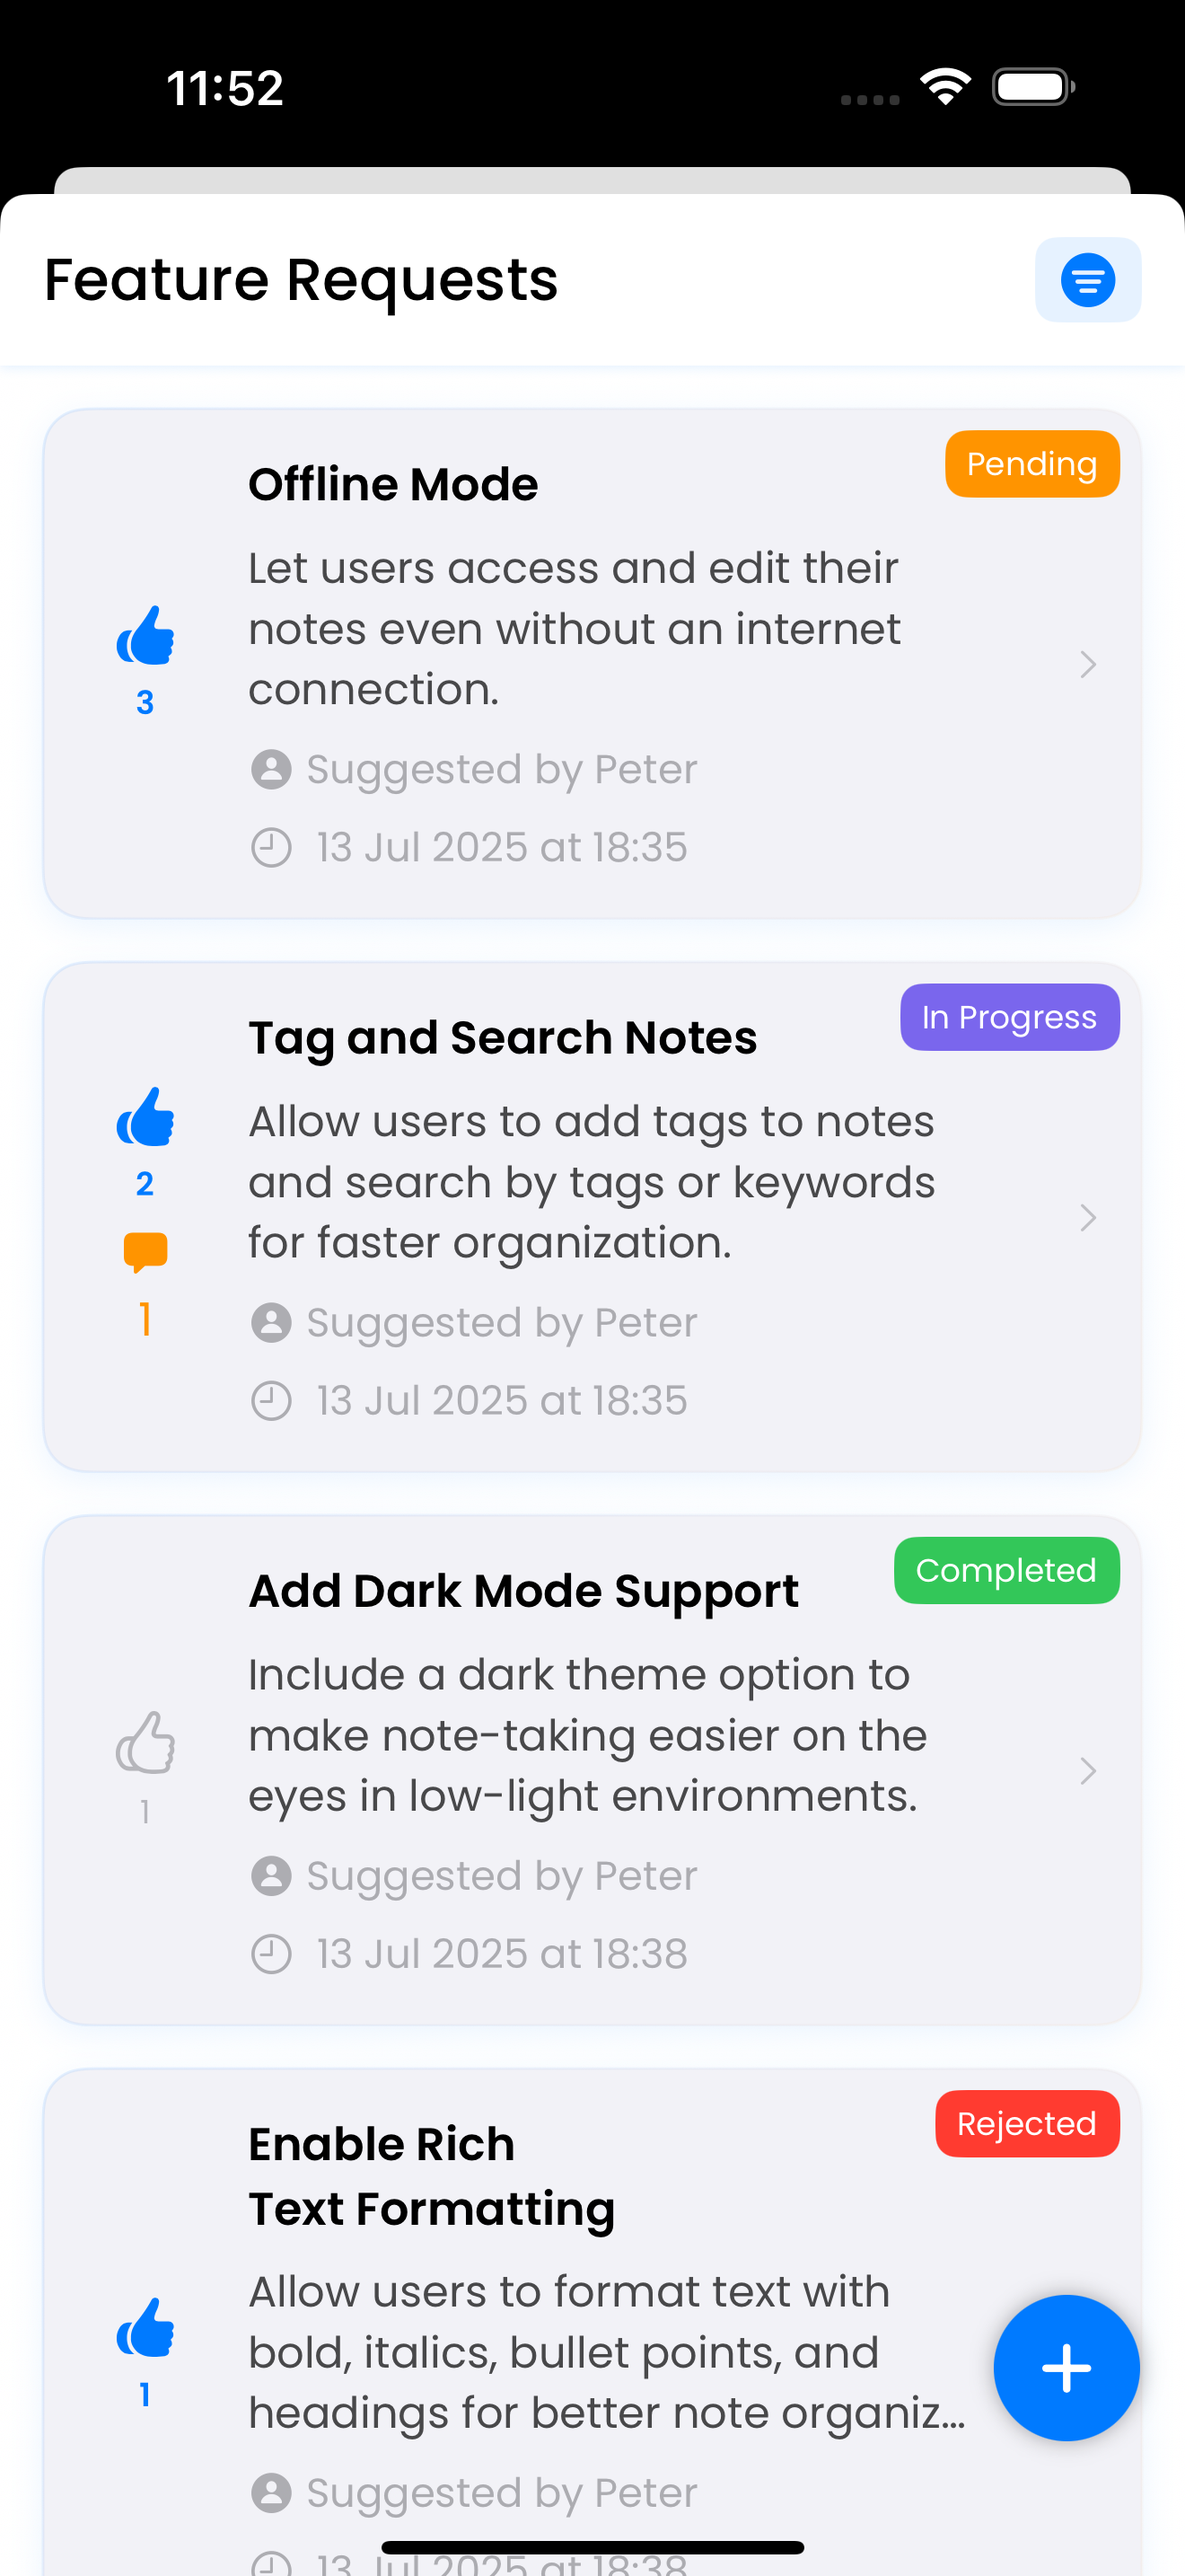
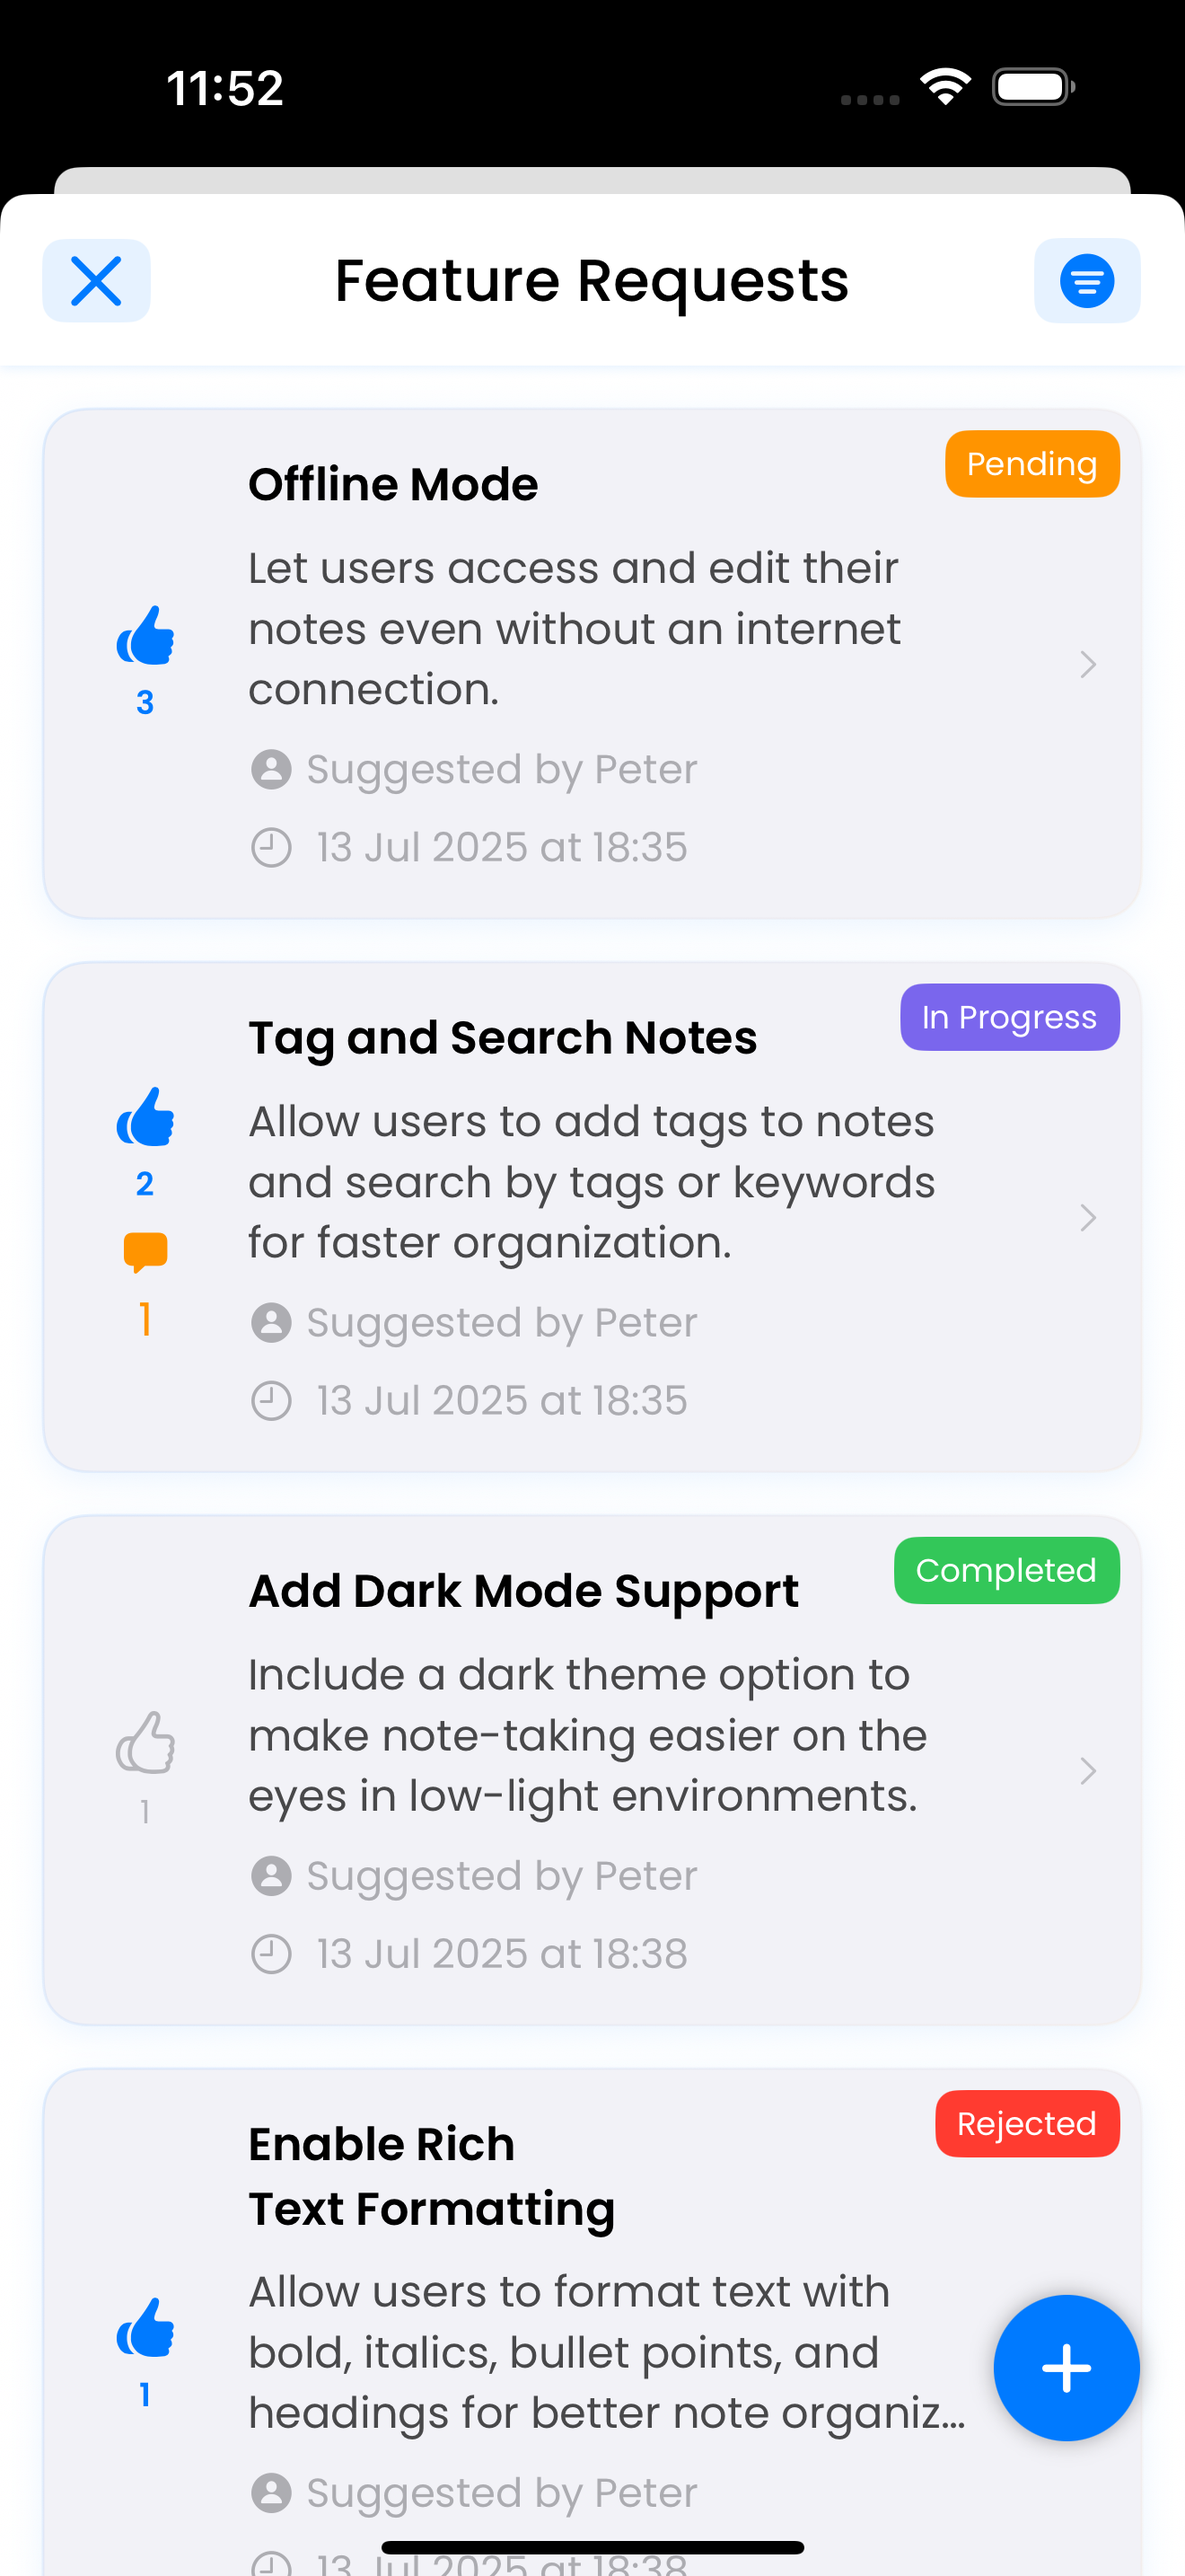
feature: deploy to main branch, v1.0.6 (#33)
* Update README.md with improved descriptions and examples

- Update description to clarify that Firebase is not required along with other configurations.
- Specify the URL of the Votice repository in the package installation instructions.
- Modify section title to include "with basic configuration" for clarity.
- Change example code to use `VoticeTexts()` instead of `MyCustomTexts()`.
- Add an example implementation of `VoticeTexts` conforming to `VoticeTextsProtocol`.

* Update Votice SDK version to 1.0.6 in README and ConfigurationManager

- Update SDK version in README.md from 1.0.5 to 1.0.6
- Update SDK version in ConfigurationManager.swift from 1.0.5 to 1.0.6

* Get latest tag and commit message in release workflow

- Rename step to "Get latest tag and commit message"
- Add command to retrieve the latest commit message
- Output the latest commit message to GitHub Actions output
- Update tag creation step to use the commit message as the body

* Refactor feedback navigation and add CloseButton component

- Update NavigationLink in HomeView to use feedbackNavigationView instead of feedbackView
- Remove warning about tvOS support from README
- Add example usage of NavigationLink for feedbackNavigationView in README
- Format code block in README to specify Swift language
- Remove unnecessary comments in VoticeTexts struct
- Add CloseButton component to handle navigation closure
- Modify SuggestionListView to include isNavigation property and hide back button
[…]

Changed region(s): [[0.0311, 0.0931, 0.7144, 0.1241], [0.9008, 0.0931, 0.9318, 0.1241]]

diff --git a/Sources/Votice/UI/Views/SuggestionList/SuggestionListView.swift b/Sources/Votice/UI/Views/SuggestionList/SuggestionListView.swift
@@ -11,11 +11,14 @@ import SwiftUI
 struct SuggestionListView: View {
     // MARK: - Properties
 
+    @Environment(\.presentationMode) private var presentationMode
     @Environment(\.voticeTheme) private var theme
 
     @StateObject private var viewModel = SuggestionListViewModel()
 
     @State private var showCreateButton = true
+
+    let isNavigation: Bool
 
     // MARK: - View
 
@@ -53,6 +56,7 @@ struct SuggestionListView: View {
                 }
             }
         }
+        .navigationBarBackButtonHidden()
         .task {
             await viewModel.loadSuggestions()
         }
@@ -91,6 +95,12 @@ struct SuggestionListView: View {
 private extension SuggestionListView {
     var headerView: some View {
         HStack {
+#if os(iOS) || os(macOS)
+            CloseButton(isNavigation: isNavigation) {
+                presentationMode.wrappedValue.dismiss()
+            }
+#endif
+            Spacer()
             Text(TextManager.shared.texts.featureRequests)
                 .font(theme.typography.title2)
                 .fontWeight(.medium)
@@ -107,8 +117,10 @@ private extension SuggestionListView {
     }
 
     var filterMenuButton: some View {
-        FilterMenuView(isExpanded: $viewModel.isFilterMenuExpanded,
-                       selectedFilter: viewModel.selectedFilter) { filter in
+        FilterMenuView(
+            isExpanded: $viewModel.isFilterMenuExpanded,
+            selectedFilter: viewModel.selectedFilter
+        ) { filter in
             viewModel.setFilter(filter)
         }
     }

diff --git a/Sources/Votice/Votice.swift b/Sources/Votice/Votice.swift
@@ -67,8 +67,21 @@ public struct Votice {
     /// - Parameters:
     ///   - theme: Custom theme for the UI (optional)
     /// - Returns: A SwiftUI View that can be presented modally or embedded
+    public static func feedbackNavigationView(theme: VoticeTheme? = nil) -> some View {
+        SuggestionListView(isNavigation: true)
+            .voticeTheme(theme ?? .default)
+#if os(macOS)
+            .frame(minWidth: 800, minHeight: 600)
+#endif
+    }
+
+    /// Present the Votice feedback interface as a standalone view
+    /// - Parameters:
+    ///  - theme: Custom theme for the UI (optional)
+    ///  - Returns: A SwiftUI View that can be used in any context
+    ///  - Note: This view is suitable for embedding in your app's UI or presenting as a full-screen cover
     public static func feedbackView(theme: VoticeTheme? = nil) -> some View {
-        SuggestionListView()
+        SuggestionListView(isNavigation: false)
             .voticeTheme(theme ?? .default)
 #if os(macOS)
             .frame(minWidth: 800, minHeight: 600)
@@ -82,7 +95,7 @@ public struct Votice {
     public static func feedbackSheet(isPresented: Binding<Bool>, theme: VoticeTheme? = nil) -> some View {
         EmptyView()
             .sheet(isPresented: isPresented) {
-                SuggestionListView()
+                SuggestionListView(isNavigation: false)
                     .voticeTheme(theme ?? .default)
 #if os(macOS)
                     .frame(minWidth: 800, minHeight: 600)

diff --git a/Sources/Votice/UI/Components/CloseButton.swift b/Sources/Votice/UI/Components/CloseButton.swift
@@ -1,0 +1,37 @@
+//
+//  CloseButton.swift
+//  Votice
+//
+//  Created by Arturo Carretero Calvo on 6/8/25.
+//  Copyright © 2025 ArtCC. All rights reserved.
+//
+
+import SwiftUI
+
+struct CloseButton: View {
+    // MARK: - Properties
+
+    @Environment(\.voticeTheme) private var theme
+
+    let isNavigation: Bool
+    let onClose: () -> Void
+
+    // MARK: - View
+
+    var body: some View {
+        Button {
+            onClose()
+        } label: {
+            Image(systemName: isNavigation ? "chevron.left" : "xmark")
+                .font(.system(size: 23.5, weight: .medium))
+                .foregroundColor(theme.colors.primary)
+                .padding(.horizontal, theme.spacing.sm)
+                .padding(.vertical, theme.spacing.xs)
+                .background(
+                    RoundedRectangle(cornerRadius: theme.cornerRadius.sm)
+                        .fill(theme.colors.primary.opacity(0.1))
+                )
+        }
+        .buttonStyle(.plain)
+    }
+}

diff --git a/Example/VoticeDemo/VoticeDemo/HomeView.swift b/Example/VoticeDemo/VoticeDemo/HomeView.swift
@@ -44,7 +44,7 @@ struct HomeView: View {
                                 Text("Option 2: Navigation Push")
                                     .font(.poppins(.semiBold, size: 18))
                                 NavigationLink {
-                                    Votice.feedbackView(theme: Votice.systemThemeWithCurrentFonts())
+                                    Votice.feedbackNavigationView(theme: Votice.systemThemeWithCurrentFonts())
                                 } label: {
                                     Text("Navigate to Feedback")
                                         .font(.poppins(.medium, size: 16))

diff --git a/Sources/Votice/Core/Managers/ConfigurationManager.swift b/Sources/Votice/Core/Managers/ConfigurationManager.swift
@@ -41,7 +41,7 @@ final class ConfigurationManager: ConfigurationManagerProtocol, @unchecked Senda
     private let lock = NSLock()
     private let _baseURL = "https://api.votice.app/api"
     private let _configurationId = UUID().uuidString
-    private let _version = "1.0.5"
+    private let _version = "1.0.6"
     private let _buildNumber = "1"
 
     // MARK: - Public properties

diff --git a/README.md b/README.md
@@ -8,7 +8,7 @@
 [![SPM](https://img.shields.io/badge/SPM-compatible-brightgreen)](https://swift.org/package-manager/)
 [![License](https://img.shields.io/badge/License-MIT-yellow.svg)](LICENSE)
 
-Votice is a native Swift SDK that allows you to integrate user feedback, suggestion boards, and voting mechanisms in your app with a clean UI and a simple setup. It connects to a custom backend using HMAC authentication and does not require Firebase or GoogleService-Info.plist.
+Votice is a native Swift SDK that allows you to integrate user feedback, suggestion boards, and voting mechanisms in your app with a clean UI and a simple setup. It connects to a custom backend using HMAC authentication and does not require Firebase or other configurations.
 
 <p align="leading">
   <img src="assets/ios_1.png" alt="Votice iOS Screenshot 1" width="200" style="margin-right:5px;" />
@@ -41,14 +41,14 @@ The Votice management app for handling suggestions and apps is available for dow
 Add this line to your `Package.swift` dependencies:
 
 ```swift
-.package(url: "https://github.com/artcc/votice-sdk", from: "1.0.5"),
+.package(url: "https://github.com/artcc/votice-sdk", from: "1.0.6"),
 ```
 
 Or via Xcode:
 
 1. Open your project.
 2. Go to **File > Add Packages...**
-3. Enter the URL of the Votice repo.
+3. Enter the URL of the Votice repo: https://github.com/artcc/votice-sdk
 4. Choose the latest version.
 
 ## 📦 Package Info
@@ -106,7 +106,7 @@ Votice.reset()
 let configured = Votice.isConfigured
 ```
 
-### 2. Show the Feedback UI (Mandatory)
+### 2. Show the Feedback UI (Mandatory) with basic configuration
 
 You can embed the main interface as a SwiftUI view:
 
@@ -118,6 +118,16 @@ Or present it as a modal sheet:
 
 ```swift
 Votice.feedbackSheet(isPresented: $isShowingFeedback)
+```
+
+Or use a NavigationLink:
+
+```swift
+NavigationLink {
+  Votice.feedbackNavigationView())
+} label: {
+  Text("Navigate to Feedback")
+}
 ```
 
 ### 3. Customize Appearance (Optional)
@@ -162,7 +172,27 @@ Votice.feedbackView(theme: theme)
 You can provide custom localized texts by conforming to `VoticeTextsProtocol`:
 
 ```swift
-Votice.setTexts(MyCustomTexts())
+Votice.setTexts(VoticeTexts())
+```
+
+Example:
+
+```swift
+struct VoticeTexts: VoticeTextsProtocol {
+    let cancel = String(localized: "Cancel")
+    let error = String(localized: "Error")
+    let ok = String(localized: "Ok")
+    let submit = String(localized: "Submit")
+    let optional = String(localized: "Optional")
+    let success = String(localized: "Success")
+    let warning = String(localized: "Warning")
+    let info = String(localized: "Information")
+    let genericError = String(localized: "Something went wrong. Please try again.")
+    let anonymous = String(localized: "Anonymous")
+    let loadingSuggestions = String(localized: "Loading suggestions...")
+    let noSuggestionsYet = String(localized: "No suggestions yet.")
+    let beFirstToSuggest = String(localized: "Be the first to suggest something!")...
+}
 ```
 
 To reset to the default English:
